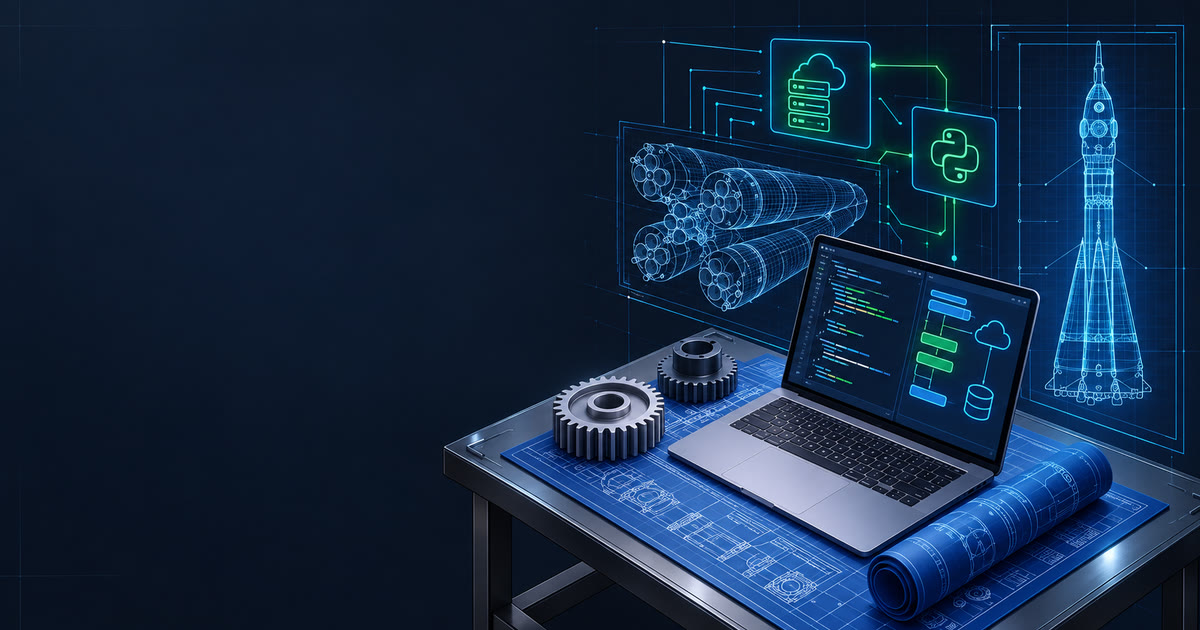
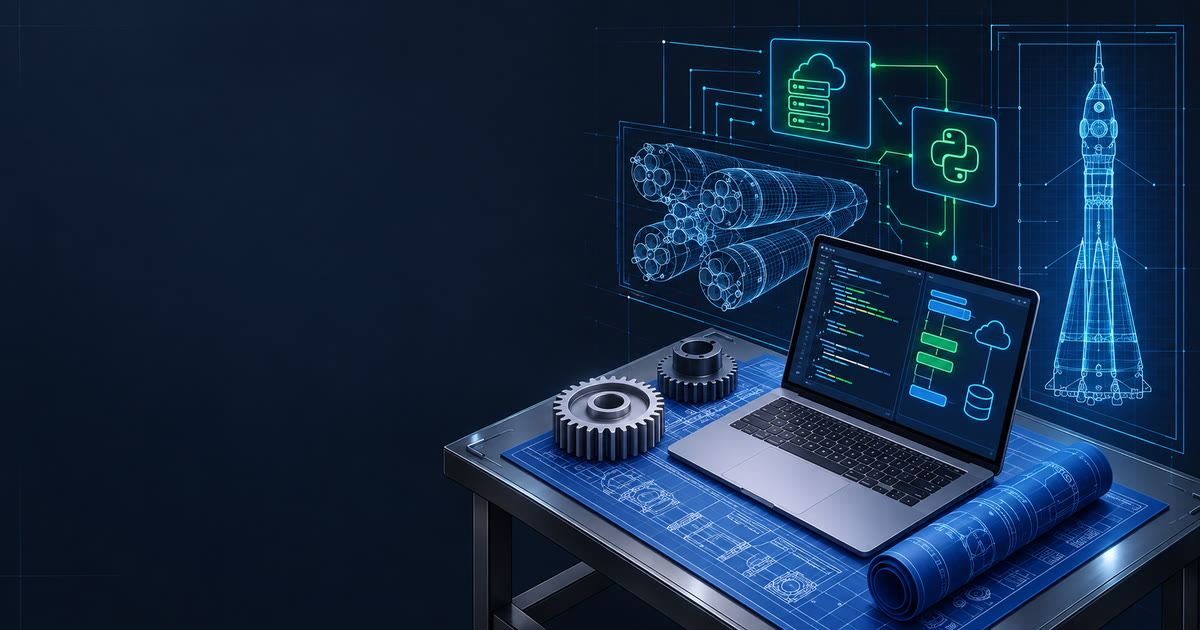
Fix the crawl warnings for the long description, empty image text, and oversized pictures.

diff --git a/src/sections/Hero/Hero.tsx b/src/sections/Hero/Hero.tsx
@@ -30,7 +30,7 @@ export function Hero() {
           sizes="100vw"
           width={1920}
           height={1072}
-          alt=""
+          alt={t('hero.backgroundAlt')}
           aria-hidden="true"
           className="h-full w-full object-cover object-center"
           fetchPriority="high"

diff --git a/src/components/ui/SocialLinks.tsx b/src/components/ui/SocialLinks.tsx
@@ -13,7 +13,7 @@ const icons = {
   hh: (
     <img
       src={hhLogo}
-      alt=""
+      alt="HH.ru"
       aria-hidden="true"
       width={20}
       height={20}
